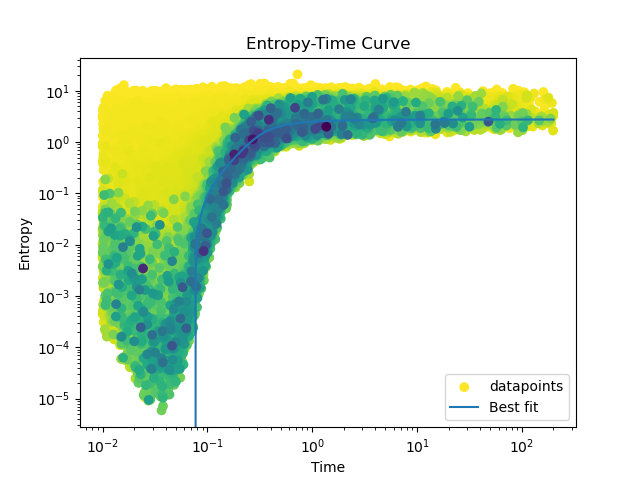
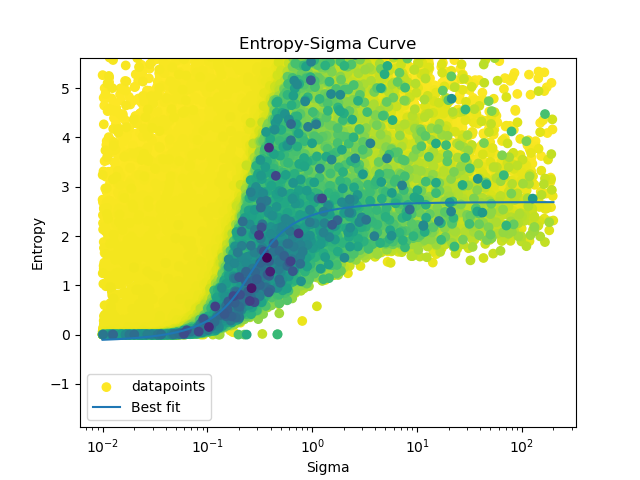
comparing with rope

diff --git a/continous_diffusion/scheduling.py b/continous_diffusion/scheduling.py
@@ -107,11 +107,12 @@ class AdaptiveSchedule(nn.Module):
         s = self.cdf(t, *self.optimal_parameters.detach().cpu().tolist())
 
         plt.plot(t, s, label='Best fit')
-        plt.title('Entropy-Time Curve')
-        plt.xlabel('Time')
+        plt.title('Entropy-Sigma Curve')
+        plt.xlabel('Sigma')
         plt.ylabel('Entropy')
         plt.xscale('log')
-        plt.yscale('log')
+        plt.ylim(0,self.height*1.5)
+        # plt.yscale('log')
         plt.legend()
 
         # Save the plot to a file
